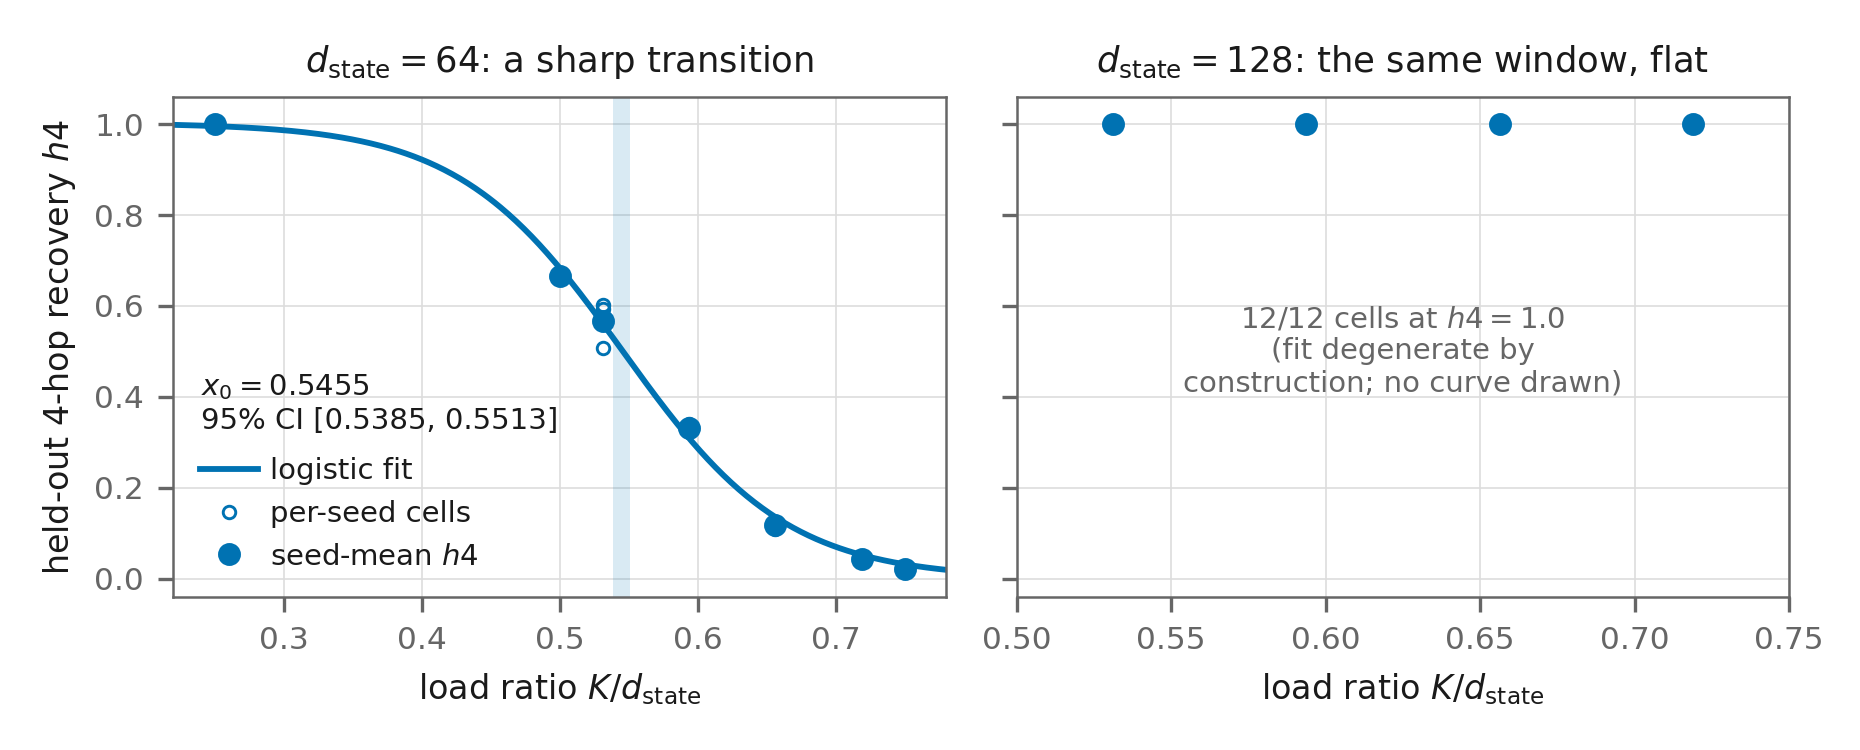
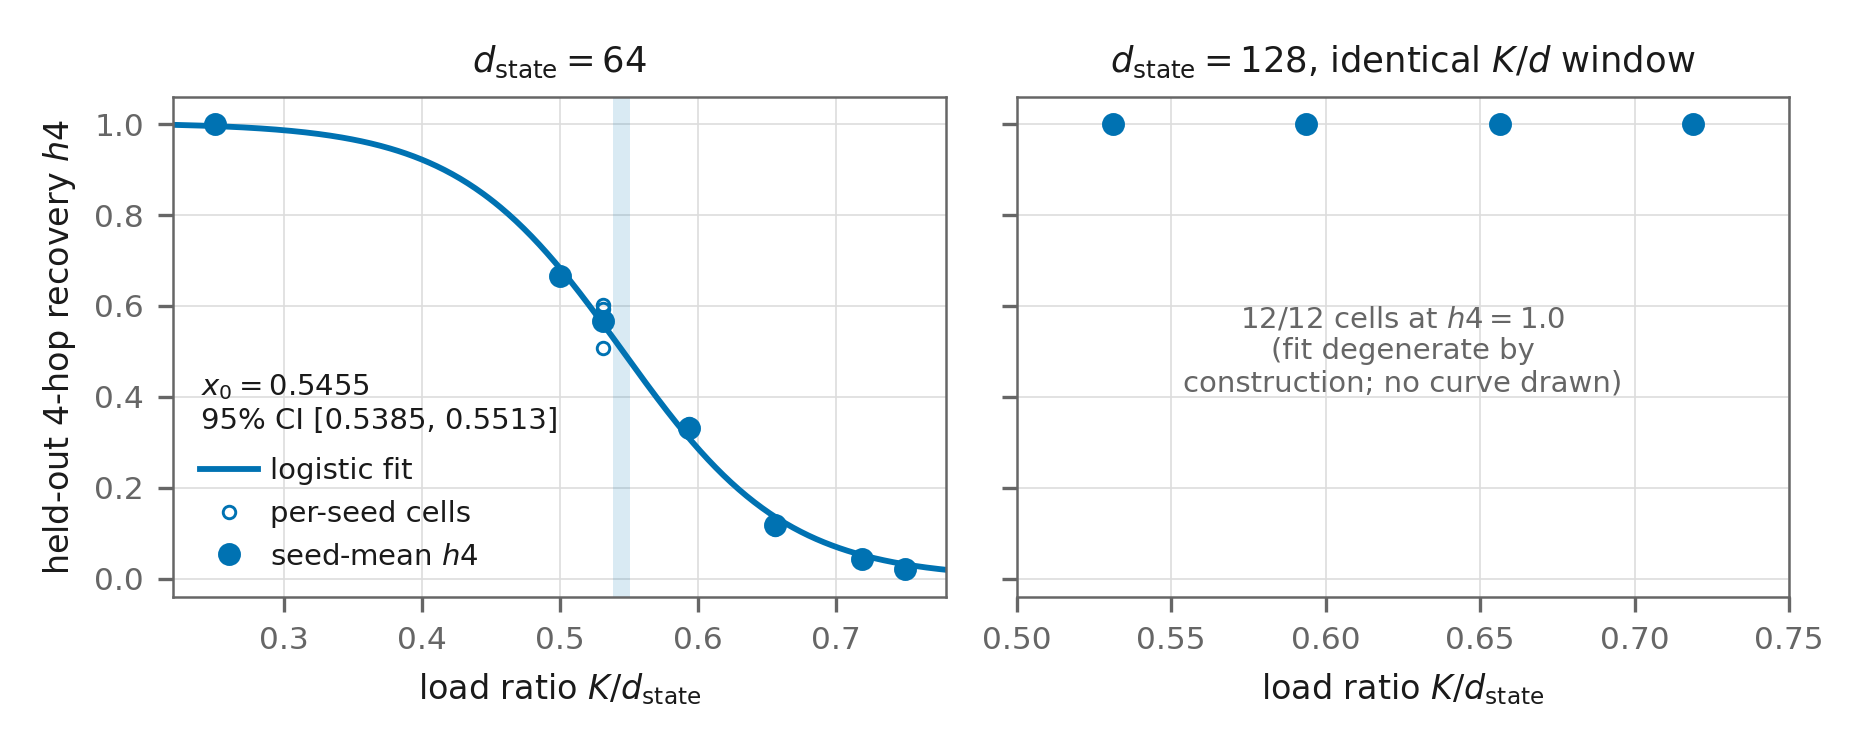
capacity-colm-er gauntlet r1: 06_render_inspection (fresh opus, all 10 pages read) — 0 critical/0 serious/1 minor (fig1 subplot titles carried editorial takeaway clauses); fix applied: neutral condition-label titles in figure-gen.py, all figures regenerated (manifest 48 md5s OK), PDF recompiled 10pp

Changed region(s): [[0.5925, 0.0613, 0.9355, 0.1227], [0.1559, 0.0613, 0.4366, 0.1227]]

diff --git a/papers/capacity-colm-er/figures/figure-gen.py b/papers/capacity-colm-er/figures/figure-gen.py
@@ -158,7 +158,7 @@ def fig1_cliff():
     ax.axvspan(ci["lo"], ci["hi"], color=BLUE, alpha=0.15, lw=0, zorder=1)
     ax.text(0.24, 0.33, f"$x_0={fit['x0']:.4f}$\n95% CI [{ci['lo']:.4f}, {ci['hi']:.4f}]",
             fontsize=7)
-    ax.set_title("$d_{\\mathrm{state}}=64$: a sharp transition")
+    ax.set_title("$d_{\\mathrm{state}}=64$")
     ax.set_xlabel("load ratio $K/d_{\\mathrm{state}}$")
     ax.set_ylabel("held-out 4-hop recovery $h4$")
     ax.set_xlim(0.22, 0.78); ax.set_ylim(-0.04, 1.06)
@@ -171,7 +171,7 @@ def fig1_cliff():
                 mec=BLUE, mew=0.7, ls="none", zorder=3)
     x2 = np.array(f128["curve_points"]["x"]); y2 = np.array(f128["curve_points"]["h4"])
     ax.plot(x2, y2, marker="o", ms=4.5, color=BLUE, ls="none", zorder=4)
-    ax.set_title("$d_{\\mathrm{state}}=128$: the same window, flat")
+    ax.set_title("$d_{\\mathrm{state}}=128$, identical $K/d$ window")
     ax.set_xlabel("load ratio $K/d_{\\mathrm{state}}$")
     ax.set_xlim(0.50, 0.75)
     ax.text(0.625, 0.5, "12/12 cells at $h4=1.0$\n(fit degenerate by\nconstruction; no curve drawn)",

diff --git a/papers/capacity-colm-er/gauntlet/round-1/06_render_inspection.md b/papers/capacity-colm-er/gauntlet/round-1/06_render_inspection.md
@@ -1,0 +1,113 @@
+# 06 — Render Inspection (Round 1)
+
+Fresh-context visual inspection of the compiled PDF
+`papers/capacity-colm-er/bundle/main.pdf`. Judged from the rendered pages
+(read at default resolution for all 10 pages, plus 200-DPI PNG re-renders of
+the four float pages 4-7 for figure/table legibility, color, and margins).
+LaTeX source was NOT consulted; no prior gauntlet reports were read.
+
+## 1. Summary
+
+- **Pages inspected: 10 of 10** (complete; none skipped).
+- **Counts: 0 critical / 0 serious / 1 minor.**
+- **Does the render block accept-ready? NO.** Zero critical and zero serious
+  findings. The one minor item is a cosmetic, defensible-but-flaggable style
+  deviation that does not block submission and does not degrade the paper on
+  the page.
+
+Page budget: total document = 10 pages. The `References` heading begins on
+**page 9** (roughly two-thirds down). Main text (Sections 1-8 + Conclusion,
+references excluded per the workshop's "4-10 pages of main text, references
+excluded" rule) therefore occupies **pages 1 through 9** — i.e. **≤ 9 pages of
+main text**, comfortably inside the 4-10 limit. No page-limit violation.
+
+Anonymization holds on every rendered page: running header reads "Under review
+as a conference paper at COLM 2026"; author block reads "Anonymous authors /
+Paper under double-blind review". No author names, no acknowledgments section
+(Conclusion goes straight to References), no identifying URLs, and no identity
+text baked into any figure image. Clean for double-blind.
+
+References render fully (pages 9-10): bibliography present, COLM/natbib
+author-year style, hanging indents; every in-text citation I checked resolves
+to a printed entry (blue author-year links throughout Sections 1, 2, 6) with
+**no `?` markers** and no unresolved `\ref`/`\cite`. Figure/Table/Section
+cross-references (Figure 1-3, Table 1, Sections 3/3.1/3.2/4/5/7) all resolve to
+real numbers.
+
+Line numbers are present in submission mode (expected — not a finding).
+
+## 2. Critical findings
+
+None.
+
+## 3. Serious findings
+
+None.
+
+## 4. Minor findings
+
+**M1 — Figure 1 (page 4): editorializing panel titles baked into the figure
+image.** The two subplots carry in-image titles "d_state = 64: a sharp
+transition" (left) and "d_state = 128: the same window, flat" (right). The
+condition portion ("d_state = 64" / "d_state = 128") is a legitimate,
+necessary panel label; the appended editorial clauses ("a sharp transition",
+"the same window, flat") state the panel's takeaway inside the pixels, which
+duplicates the caption and brushes the ml-paper-writing rule that the caption —
+not the figure image — carries titular/conclusory text. Fix (optional): trim
+the two panel titles to neutral condition labels (e.g. "d_state = 64" /
+"d_state = 128", or "(a) d_state = 64" / "(b) d_state = 128") and let the
+existing caption carry "sharp transition" vs "flat". Cosmetic; a real reviewer
+is very unlikely to penalize descriptive panel titles, so this does not block.
+Figures 2 and 3 have no baked-in titles.
+
+## Non-finding checks that passed (for the record)
+
+- **Figures render cleanly.** No clipping, no cut-off axis labels/legends, no
+  element overlap in any of Figures 1-3. Verified at 200 DPI: Fig 1 inset text
+  (x_0 CI) and legend do not collide with the logistic curve; Fig 1 right-panel
+  "12/12 cells" note does not overlap its four ceiling dots; Fig 2 legend box,
+  grey training-band label, and marker cloud are mutually clear; Fig 3
+  annotations, leader line, colored patches, and points do not overlap. All
+  axis titles fully visible.
+- **Figure text legibility.** Axis labels, tick labels, inset/annotation text,
+  and legends in all three figures are legible at print size, comparable to
+  body/footnote text. No figure has axis labels smaller than a footnote.
+- **Series distinguishable without color.** Fig 2 separates its three series by
+  marker SHAPE (vermillion cross vs blue open circle vs orange open triangle),
+  not color alone. Fig 3 separates filled circles (located midpoints) from open
+  squares-with-arrows (window-limited bounds) by shape; its two rival-band
+  patches are teal vs amber (a colorblind-distinguishable pair) AND are
+  vertically position-separated AND text-labeled by value. Fig 1 is a single
+  series. No color-only reliance.
+- **Captions adjacent to floats.** Every caption sits directly beneath its
+  float on the same page: Fig 1 (p4), Fig 2 (p5), Fig 3 (p6), Table 1 (p7). No
+  drifted floats.
+- **Table 1 (page 7) renders cleanly** with all five columns inside the text
+  block, and its dagger footnote is present and readable (the "≥ 90†" /
+  "≥ 2.50†" cells map to the caption's "†Rests on a three-seed K=90 reading…"
+  note).
+- **No margin violations / overfull boxes** observed. Justified text, inline
+  math (e.g. the DeltaNet update on p2, `\max|cos|` expressions), and the table
+  all stay within the text block on every page.
+- **No orphaned headings or widowed lines** at any page break. Section headings
+  1-8 and 3.1/3.2 are each followed by their content on the same page; the
+  `References` heading on p9 is followed by entries on the same page.
+  Paragraphs that continue across page breaks (e.g. p5→p6 past the Fig 3 float)
+  are normal float behavior, not widows.
+
+## 5. Pages inspected
+
+Pages 1, 2, 3, 4, 5, 6, 7, 8, 9, 10 (all 10 — default-resolution read of the
+full document; pages 4, 5, 6, 7 additionally re-rendered at 200 DPI for
+figure/table scrutiny).
+
+## Security note
+
+No fake `<system-reminder>`-style blocks, date-change claims, or concealment
+instructions appeared in any tool output during this inspection.
+
+---
+
+**Verdict: FAIL (1 finding)** — one MINOR, non-blocking cosmetic item (M1);
+zero critical, zero serious. The render is accept-ready; M1 is an optional
+polish the writer may clear for a clean re-inspection pass.

diff --git a/papers/capacity-colm-er/bundle/README.md b/papers/capacity-colm-er/bundle/README.md
@@ -28,8 +28,10 @@ numbers.
 ## Citations
 
 Every `refs.bib` entry was verified programmatically against the arXiv
-API (or CrossRef for Welch 1974) on 2026-07-10; the verification record
-is `citation-verification.json` in this directory. Two author-list errors
+API (or CrossRef for Welch 1974 and the two 1972 classics, Kohonen and
+Anderson, whose DOIs were fetched and added at the round-1 format-audit
+stage) on 2026-07-10; the verification record is
+`citation-verification.json` in this directory. Two author-list errors
 inherited from the base draft's bib were caught and corrected
 (`nazari2026rank`, `sun2026staterank`).
 